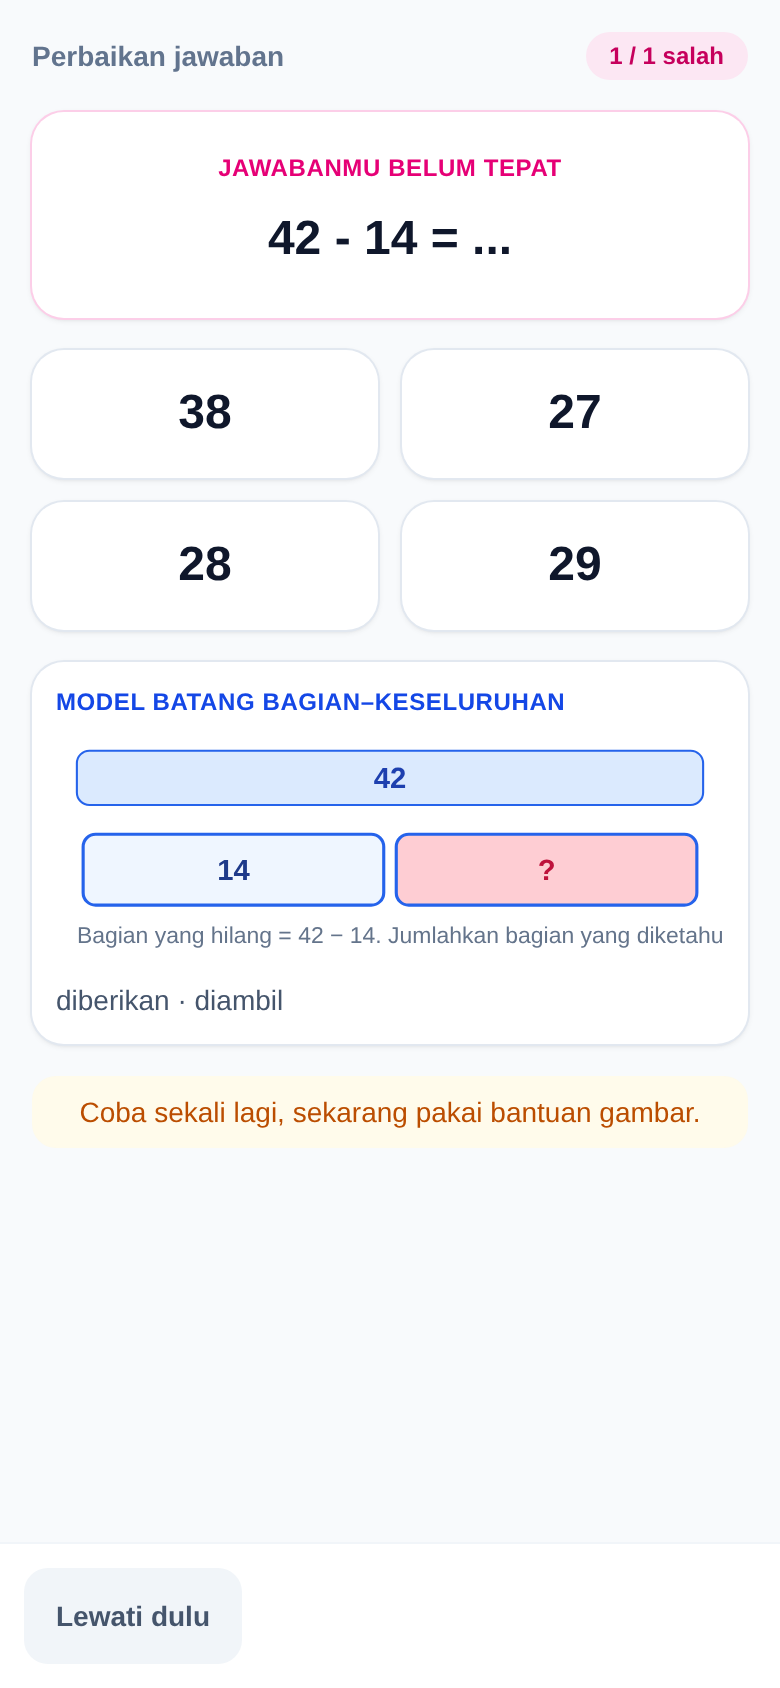
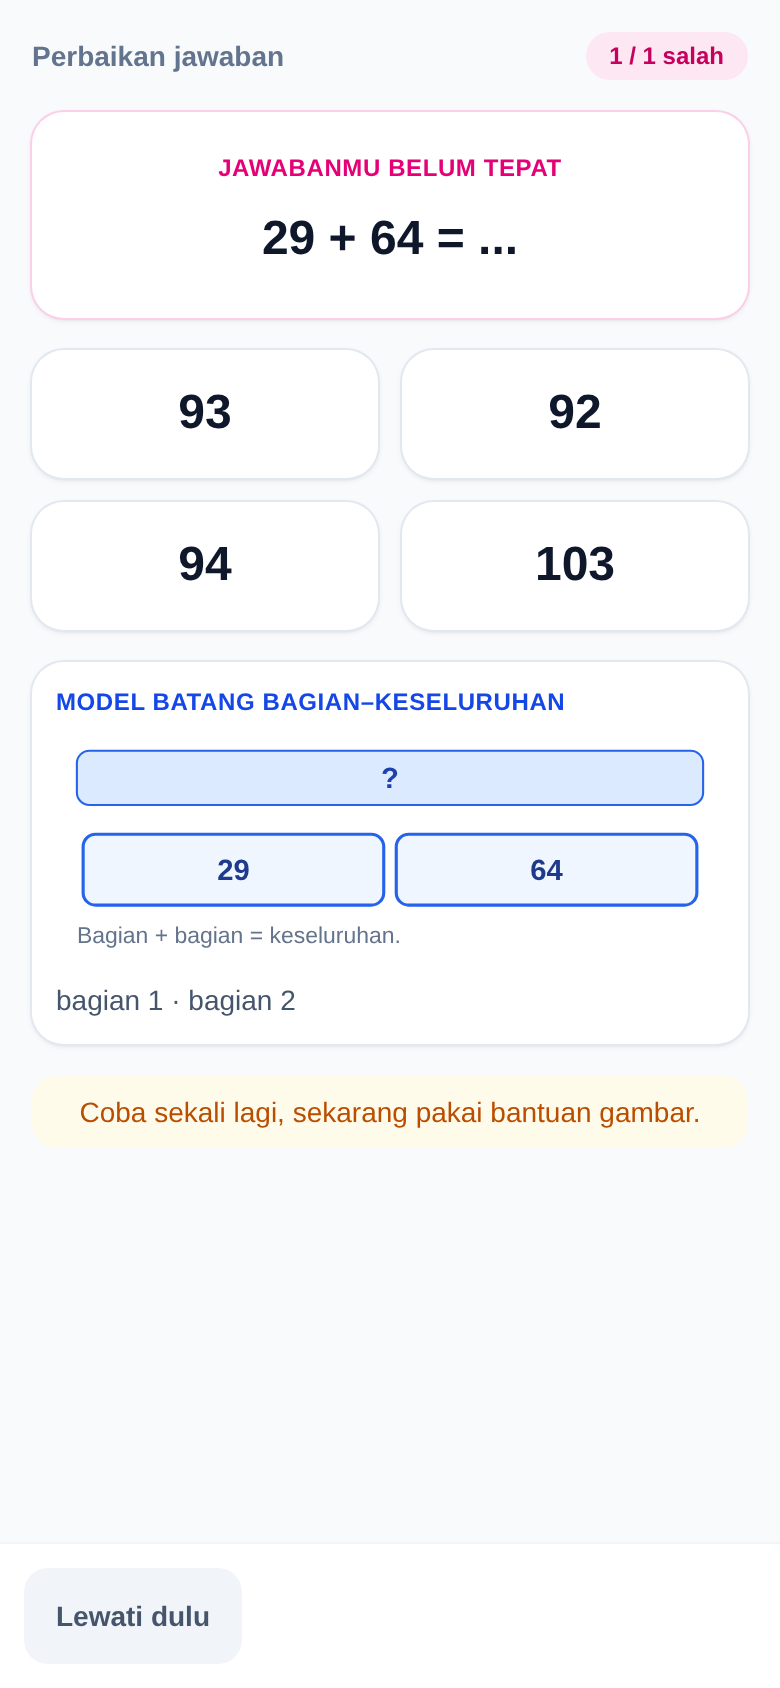
fix: address review findings on preview script and README
- capture-previews.mjs imports createSessionToken and the answer
  formatting/equality helpers from src/ instead of mirroring them
- SIGINT/SIGTERM run the same cleanup as the normal exit path, so the
  spawned web server and temp videos are never orphaned
- README: CPA layer described as a visual hint, bar model as one example
- preview assets regenerated through the refactored script

diff --git a/README.md b/README.md
@@ -17,7 +17,7 @@
 
 SaasMath is a web app (PWA) for Indonesian children in kelas 4-6 SD. Each day the child plays one timed 10-15 minute math drill, built the way Kumon works. A ladder of small-step sets carries the curriculum, and each set has a Standard Completion Time (SCT) target. A mastery gate decides advancement, and a failed gate repeats the set as a freshly generated variant.
 
-Grading is instant and wrong answers trigger same-session self-correction. When a child stays stuck, a Singapore-math CPA layer intervenes and the same problem returns as a pictorial bar model (model batang) before the abstract form. A streak, stars, and a toko give the loop its gamification.
+Grading is instant and wrong answers trigger same-session self-correction. When a child stays stuck, a Singapore-math CPA layer intervenes with a visual hint, such as a bar model (model batang), before the abstract form returns. A streak, stars, and a toko give the loop its gamification.
 
 The content is aligned to Kurikulum Merdeka Fase B/C and sold direct to parents in Bahasa Indonesia. Prices from `src/lib/checkout-prices.ts`: Rp49.000 for one month, Rp129.000 for three, Rp229.000 for six, Rp399.000 for twelve. The PWA caches the last offered set, so a drill still runs with no network and queued submissions sync when connectivity returns.
 
